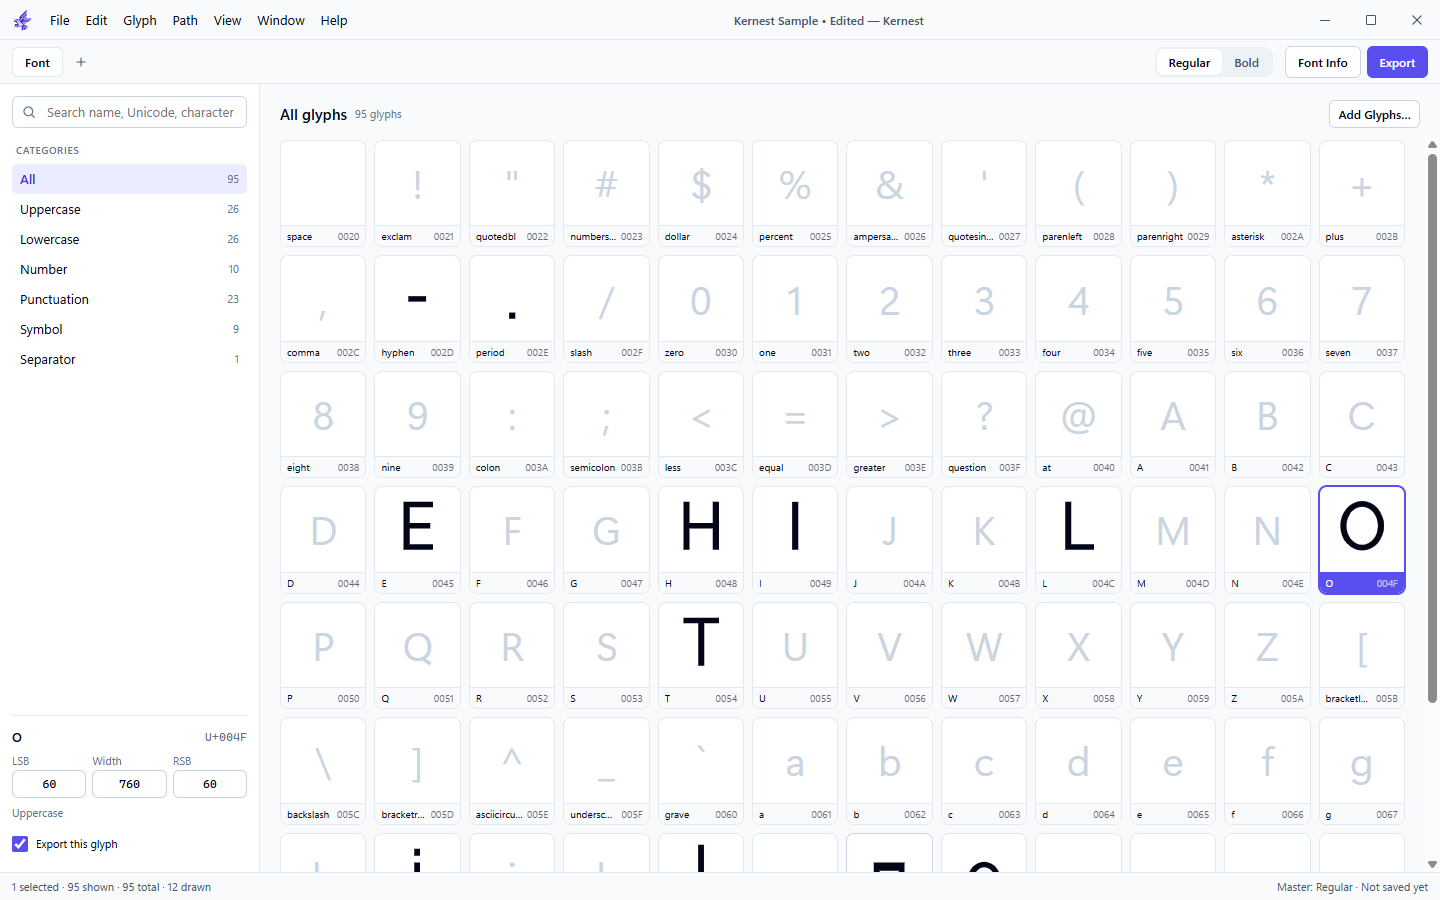
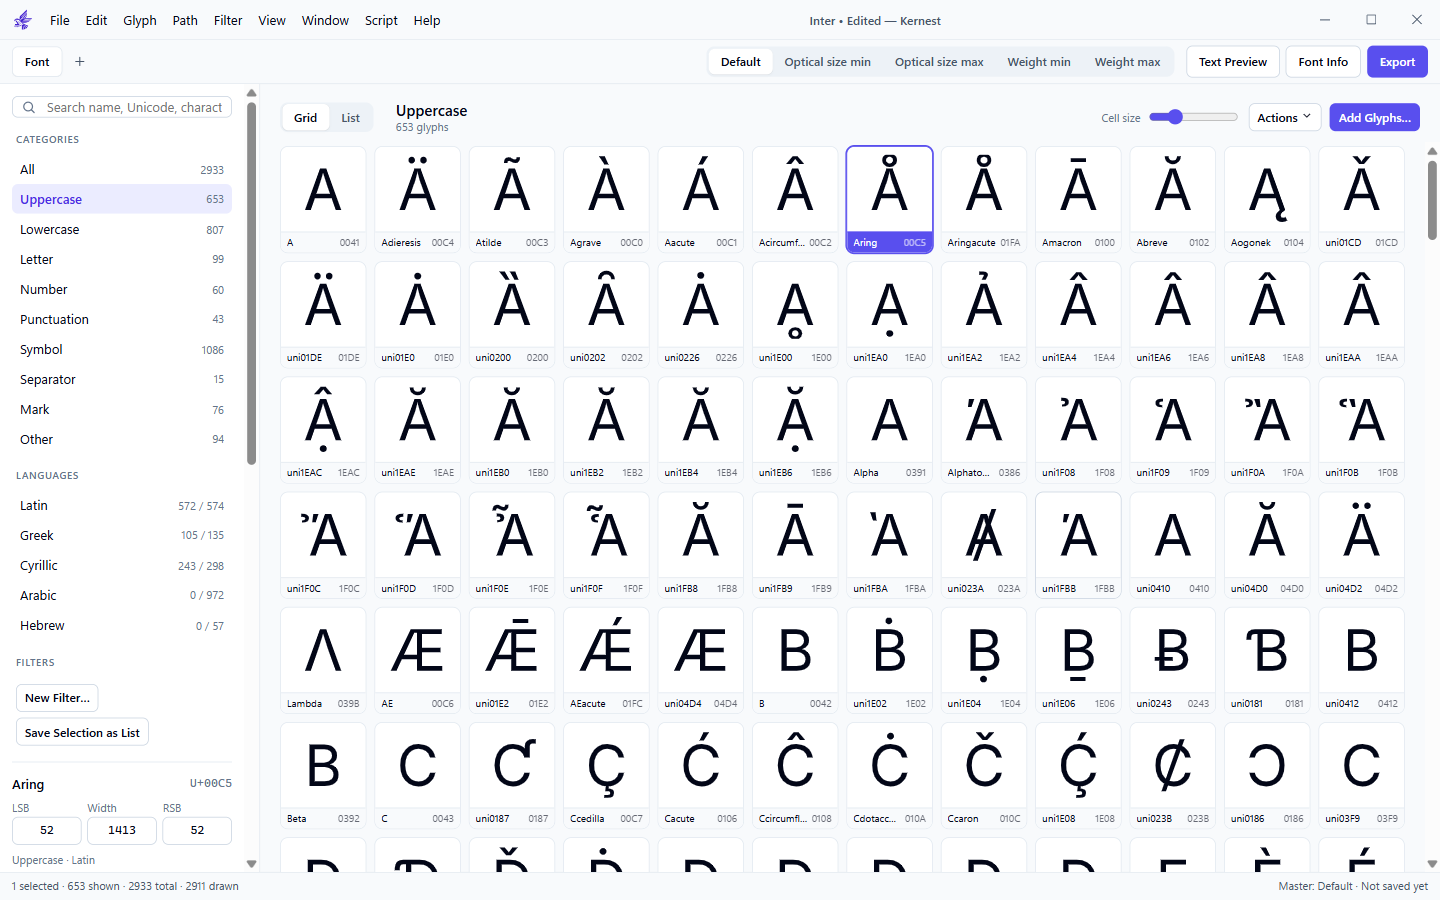
README: screenshots from the real app with Inter

diff --git a/README.md b/README.md
@@ -23,7 +23,7 @@
 </p>
 
 <p align="center">
-  <img src="docs/images/font-view.png" alt="Kernest Font View: every glyph of the font in a grid, with categories on the left and the selected glyph's metrics below" width="900">
+  <img src="docs/images/font-view.png" alt="Kernest Font View: the uppercase glyphs of Inter in a grid, with categories, languages and the selected glyph's metrics in the sidebar" width="900">
 </p>
 
 ## Features
@@ -42,22 +42,24 @@ See the [Handbook](docs/HANDBOOK.md) for how to use each feature.
 
 <table>
   <tr>
-    <td width="50%"><img src="docs/images/edit-view.png" alt="Edit View: drawing the letter O, with on-curve points, handles and metric lines"></td>
-    <td width="50%"><img src="docs/images/text-view.png" alt="Text tab: sample text set in the font, with metric lines for spacing and kerning"></td>
+    <td width="50%"><img src="docs/images/edit-view.png" alt="Edit View: the letter R with its nodes, handles and metric lines, and a variation preview of the weight and optical size axes"></td>
+    <td width="50%"><img src="docs/images/text-view.png" alt="Text tab: the word Kernest set in the font with metric lines, and a preview of it in each master"></td>
   </tr>
   <tr>
-    <td><b>Edit View:</b> draw and edit outlines, components, sidebearings and metrics keys, intermediate and alternate layers.</td>
-    <td><b>Text tabs:</b> set sample text to space and kern, with kerning groups and exceptions.</td>
+    <td><b>Edit View:</b> draw and edit outlines, with a live variation preview and every master's layer at hand.</td>
+    <td><b>Text tabs:</b> set text to space and kern, with kerning groups and exceptions and a preview in every master.</td>
   </tr>
   <tr>
-    <td><img src="docs/images/font-info.png" alt="Font Info: the Weight axis, Regular and Bold masters with their metrics, and instances"></td>
+    <td><img src="docs/images/font-info.png" alt="Font Info: the masters of a variable font on its optical size and weight axes, with their metrics"></td>
     <td><img src="docs/images/export.png" alt="Export dialog: variable and static fonts as TTF, OTF and WOFF2, with overlap removal and metrics keys"></td>
   </tr>
   <tr>
-    <td><b>Font Info:</b> axes, masters and instances, with live interpolation previews.</td>
+    <td><b>Font Info:</b> axes, masters and instances, with checks that keep masters compatible.</td>
     <td><b>Export:</b> variable and static fonts as TTF, OTF (CFF/CFF2) and WOFF2.</td>
   </tr>
 </table>
+
+<sub>Screenshots show <a href="https://github.com/rsms/inter">Inter</a> by Rasmus Andersson, imported from its variable font (SIL Open Font License).</sub>
 
 ## Install
 
